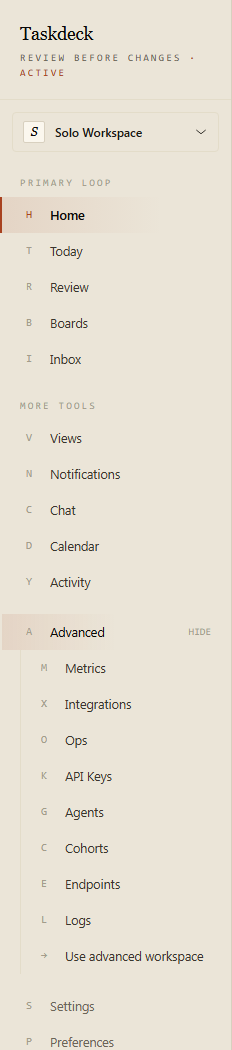
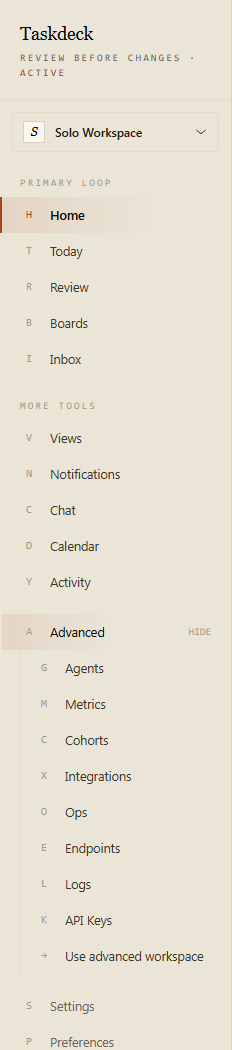
Align guided navigation disclosures

Changed region(s): [[0.2716, 0.6095, 0.5733, 0.8838], [0.181, 0.7314, 0.2112, 0.7619], [0.181, 0.6095, 0.2112, 0.64]]

diff --git a/frontend/taskdeck-web/src/components/shell/ShellSidebar.vue b/frontend/taskdeck-web/src/components/shell/ShellSidebar.vue
@@ -2,6 +2,7 @@
 import { computed, onUnmounted, ref, watch } from 'vue'
 import { useRoute } from 'vue-router'
 import { registerEscapeHandler } from '../../composables/useEscapeStack'
+import { orderGuidedAdvancedDestinations } from '../guidedAdvancedNavigation'
 import { useFeatureFlagStore } from '../../store/featureFlagStore'
 import { useWorkspaceStore } from '../../store/workspaceStore'
 import type { FeatureFlags } from '../../types/feature-flags'
@@ -361,10 +362,10 @@ const availableNavItems = computed(() => navCatalog.filter(isFeatureAvailable))
 const sidebarNavItems = computed(() =>
   availableNavItems.value.filter((item) => item.sidebarPrimary === true))
 
-const guidedAdvancedNavItems = computed(() => [
+const guidedAdvancedNavItems = computed(() => orderGuidedAdvancedDestinations([
   ...availableNavItems.value.filter(item => item.guidedAdvanced === true),
   ...guidedAdvancedOnlyCatalog.filter(isFeatureAvailable),
-])
+]))
 
 watch(activeWorkspaceMode, mode => {
   if (mode !== 'guided') guidedAdvancedRevealed.value = false
@@ -503,7 +504,7 @@ defineExpose({
         >
           <span class="td-nav-item__icon">A</span>
           <span v-if="!sidebarCollapsed" class="td-nav-item__label">Advanced</span>
-          <span v-if="!sidebarCollapsed" class="td-nav-item__kbd">{{ guidedAdvancedRevealed ? 'Hide' : 'Show' }}</span>
+          <span v-if="!sidebarCollapsed" class="td-nav-item__disclosure">{{ guidedAdvancedRevealed ? 'Hide' : 'Show' }}</span>
         </button>
 
         <div
@@ -785,6 +786,13 @@ defineExpose({
   border: 1px solid var(--td-border-default);
   border-radius: var(--td-radius-sm);
   padding: 1px 4px;
+  letter-spacing: 0.05em;
+}
+
+.td-nav-item__disclosure {
+  margin-left: auto;
+  color: var(--td-text-tertiary);
+  font-size: 0.6rem;
   letter-spacing: 0.05em;
 }
 

diff --git a/frontend/taskdeck-web/src/components/paper/PaperSidebar.vue b/frontend/taskdeck-web/src/components/paper/PaperSidebar.vue
@@ -11,6 +11,7 @@ import type { WorkspaceMode } from '../../types/workspace'
 import { isWorkspaceMode } from '../../types/workspace'
 import PaperIcon from './PaperIcon.vue'
 import PaperStatusPill from './PaperStatusPill.vue'
+import { orderGuidedAdvancedDestinations } from '../guidedAdvancedNavigation'
 
 /**
  * PaperSidebar — Paper & Graphite shell sidebar.
@@ -137,13 +138,13 @@ const visibleWorkbench = computed(() => activeWorkspaceMode.value === 'guided'
 const visibleMeta = computed(() => activeWorkspaceMode.value === 'guided'
   ? availableMeta.value.filter(item => !guidedAdvancedExistingIds.has(item.id))
   : availableMeta.value)
-const guidedAdvancedNavItems = computed(() => [
+const guidedAdvancedNavItems = computed(() => orderGuidedAdvancedDestinations([
   ...availableWorkbench.value,
   ...availableMeta.value,
   ...availableCommandOnly.value,
 ].filter(item => guidedAdvancedExistingIds.has(item.id)).concat(
   guidedAdvancedOnlyItems.filter(isAvailable),
-))
+)))
 const workbenchGroupLabel = computed(() =>
   activeWorkspaceMode.value === 'guided' ? 'More tools' : 'Workbench tools')
 const availableNavItems = computed(() =>
@@ -735,6 +736,7 @@ defineExpose({
   position: relative;
   min-height: 100vh;
   height: 100vh;
+  height: 100dvh;
   overflow-y: auto;
 }
 

diff --git a/frontend/taskdeck-web/src/tests/components/ShellSidebar.spec.ts b/frontend/taskdeck-web/src/tests/components/ShellSidebar.spec.ts
@@ -264,6 +264,9 @@ describe('ShellSidebar', () => {
     for (const label of ['Agents', 'Metrics', 'Cohorts', 'Integrations', 'Ops', 'Endpoints', 'Logs', 'API Keys', 'Dev Tools']) {
       expect(wrapper.text()).toContain(label)
     }
+    expect(wrapper.findAll('#guided-advanced-destinations a .td-nav-item__label').map(label => label.text())).toEqual([
+      'Agents', 'Metrics', 'Cohorts', 'Integrations', 'Ops', 'Endpoints', 'Logs', 'API Keys', 'Dev Tools',
+    ])
     const exposed = (wrapper.vm as unknown as { availableNavItems: Array<{ id: string }> }).availableNavItems
     expect(exposed.map(item => item.id)).toEqual(expect.arrayContaining([
       'agents', 'metrics', 'integrations', 'ops', 'api-keys',

diff --git a/frontend/taskdeck-web/src/tests/components/paper/PaperSidebar.spec.ts b/frontend/taskdeck-web/src/tests/components/paper/PaperSidebar.spec.ts
@@ -138,6 +138,9 @@ describe('PaperSidebar', () => {
     for (const label of ['Agents', 'Metrics', 'Cohorts', 'Integrations', 'Ops', 'Endpoints', 'Logs', 'API Keys', 'Dev Tools']) {
       expect(wrapper.find('[data-group="advanced"]').text()).toContain(label)
     }
+    expect(wrapper.findAll('[data-group="advanced"] a .paper-sidebar__label').map(label => label.text())).toEqual([
+      'Agents', 'Metrics', 'Cohorts', 'Integrations', 'Ops', 'Endpoints', 'Logs', 'API Keys', 'Dev Tools',
+    ])
   })
 
   it('keeps the command palette catalog complete while guided navigation is collapsed', () => {

diff --git a/frontend/taskdeck-web/src/components/guidedAdvancedNavigation.ts b/frontend/taskdeck-web/src/components/guidedAdvancedNavigation.ts
@@ -1,0 +1,19 @@
+export const GUIDED_ADVANCED_DESTINATION_ORDER = [
+  'agents',
+  'metrics',
+  'cohorts',
+  'integrations',
+  'ops',
+  'ops-endpoints',
+  'ops-logs',
+  'api-keys',
+  'dev-tools',
+] as const
+
+export function orderGuidedAdvancedDestinations<T extends { id: string }>(items: readonly T[]): T[] {
+  const byId = new Map(items.map(item => [item.id, item]))
+  return GUIDED_ADVANCED_DESTINATION_ORDER.flatMap(id => {
+    const item = byId.get(id)
+    return item ? [item] : []
+  })
+}
